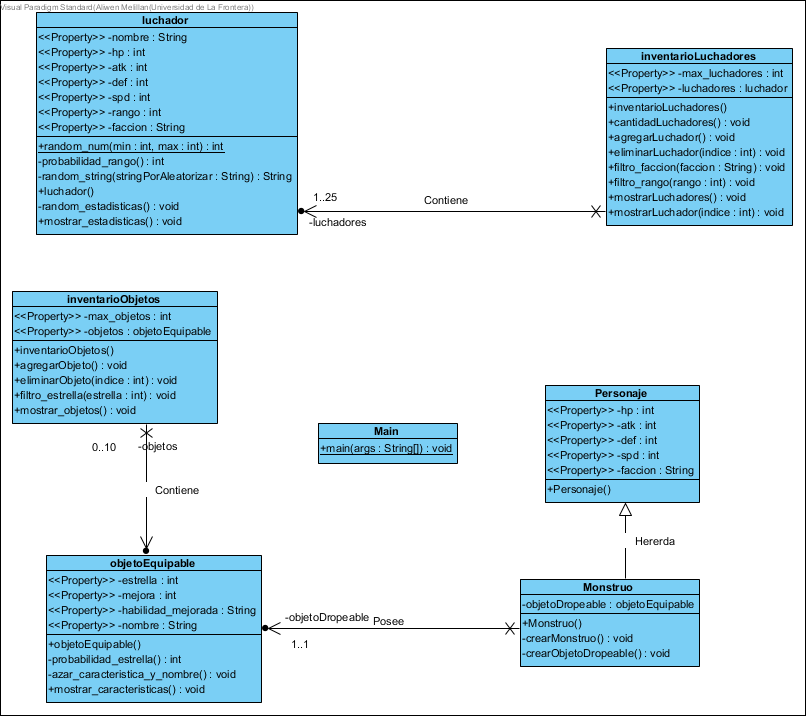
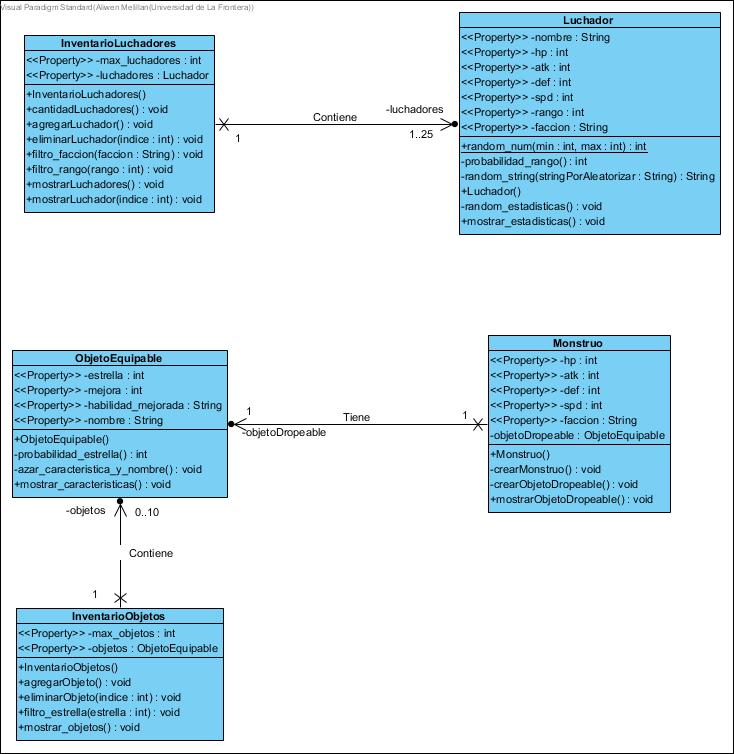
Actualización más errores
Correción de otros errores en los análisis.  Se borra clase Main y Personaje dado que no son pedidos.

diff --git a/Monstruo.java b/Monstruo.java
@@ -1,6 +1,11 @@
 package Ayudantia;
 
-public class Monstruo extends Personaje{ //nombre,hp,atk,def,spd,rango + setters and getters desde clase Personaje
+public class Monstruo{ 
+	private int hp;
+	private int atk;
+	private int def;
+	private int spd;
+	private String faccion;
 	private ObjetoEquipable objetoDropeable;
 	
 	public Monstruo() {
@@ -15,6 +20,45 @@ public class Monstruo extends Personaje{ //nombre,hp,atk,def,spd,rango + setters
 		setAtk(Luchador.random_num(1000, 1500)); //ATK
 		setDef(Luchador.random_num(5, 25)); //DEF
 		setSpd(Luchador.random_num(10, 100)); //SPD
+	}
+	public String getFaccion() {
+		return faccion;
+	}
+
+	public void setFaccion(String faccion) {
+		this.faccion = faccion;
+	}
+
+	public int getHp() {
+		return hp;
+	}
+
+	public void setHp(int hp) {
+		this.hp = hp;
+	}
+
+	public int getAtk() {
+		return atk;
+	}
+
+	public void setAtk(int atk) {
+		this.atk = atk;
+	}
+
+	public int getDef() {
+		return def;
+	}
+
+	public void setDef(int def) {
+		this.def = def;
+	}
+
+	public int getSpd() {
+		return spd;
+	}
+
+	public void setSpd(int spd) {
+		this.spd = spd;
 	}
 	private void crearObjetoDropeable() {
 		objetoDropeable=new ObjetoEquipable();	

diff --git a/luchador.java b/luchador.java
@@ -9,6 +9,7 @@ public class Luchador
 	private int spd;
 	private int rango;
 	private String faccion;
+	//private ObjetoEquipable objeto;
 	
 	public static int random_num(int min, int max) { //Metodo estatico que genera numero aleatorio
 		int num_generado = (int) (Math.random() * ((max - min) + 1) + min);
@@ -117,6 +118,14 @@ public class Luchador
 		this.faccion = faccion;
 	}
 
+	/*public ObjetoEquipable getObjeto() {
+		return objeto;
+	}
+
+	public void setObjeto(ObjetoEquipable objeto) {
+		this.objeto = objeto;
+	}
+*/
 	//------         --------
 	private void random_estadisticas() //Estadisticas aleatorias a partir del constructor con paramentros vacios
 	{
@@ -140,4 +149,6 @@ public class Luchador
 				+"\nFaccion:" + getFaccion());
 		
 	}
+	//Tarea 5 Objeto
+
 }
